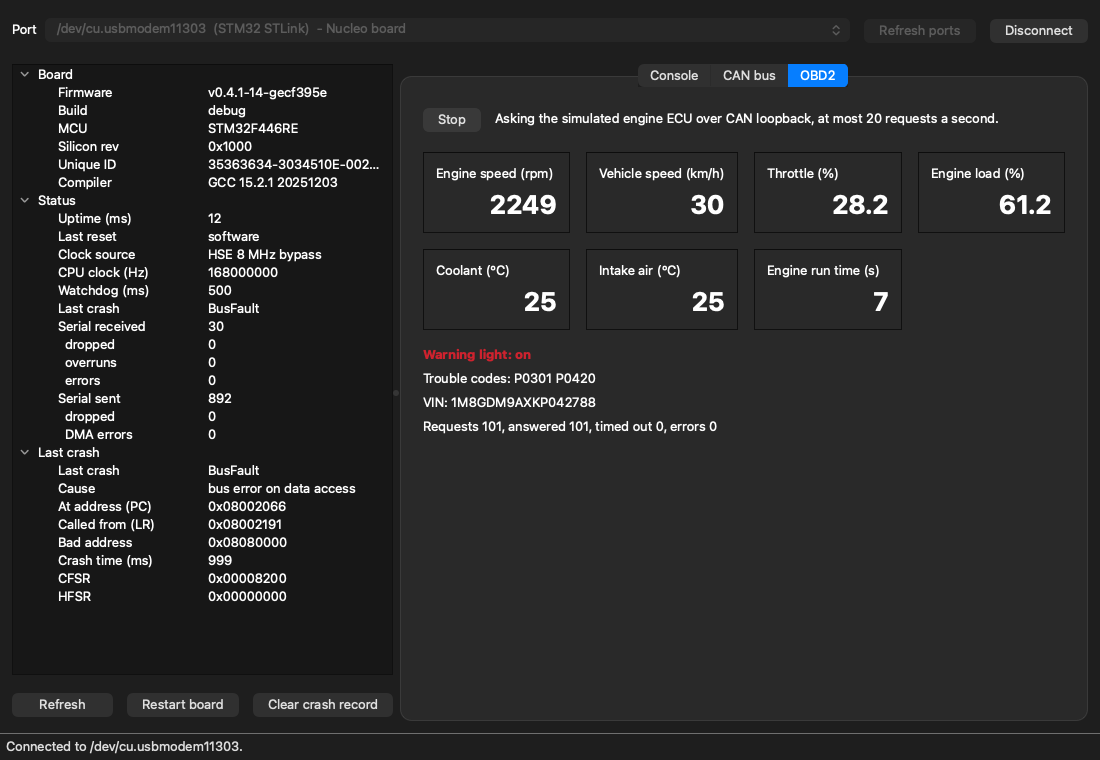
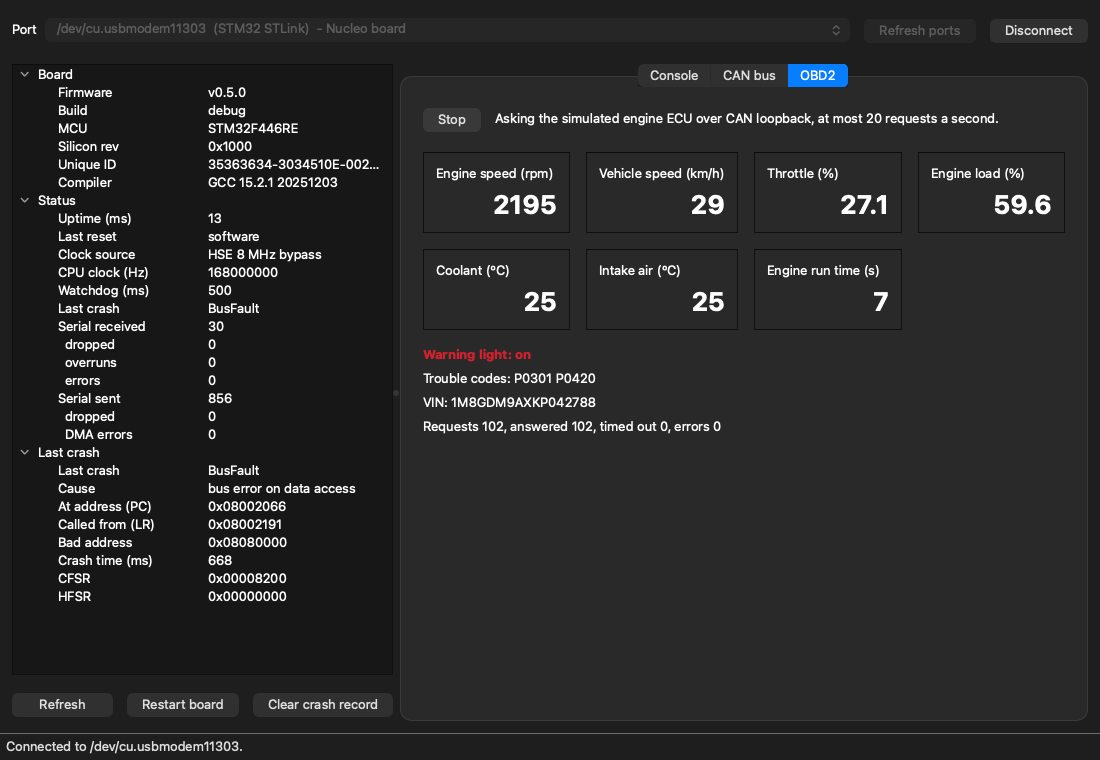
docs: animated demo of the desktop app, and screenshots from v0.5.0 (#76)
screenshots.py gains a demo shot that records the desktop app's OBD2 tab on the board as docs/images/desktop-app-demo.gif; only that shot needs Pillow. All images are retaken from CI's v0.5.0 Debug file.

diff --git a/scripts/screenshots.py b/scripts/screenshots.py
@@ -9,10 +9,12 @@ Needs the laptop tool with the desktop app (`pip install -e "host[gui]"`).
 Close any serial terminal first: only one program can hold the port.
 
 Usage:
-    python3 scripts/screenshots.py [--port PORT] [--out DIR] [console] [can] [obd]
+    python3 scripts/screenshots.py [--port PORT] [--out DIR] [console] [can] [obd] [demo]
 
 console runs `crash bus`, so it needs a Debug build; can and obd work with
-either build. With no names, all three are taken.
+either build. With no names, those three are taken. demo records the animated
+GIF for the README, restarting the board first. It also needs Pillow, which
+nothing else in the project uses (`pip install pillow`).
 """
 
 from __future__ import annotations
@@ -25,6 +27,7 @@ from pathlib import Path
 
 from obdsniff.gui.window import MainWindow
 from obdsniff.gui.worker import DeviceWorker
+from PySide6.QtGui import QImage
 from PySide6.QtWidgets import QApplication
 from shiboken6 import delete
 
@@ -34,7 +37,11 @@ POLL_S = 0.05  # how often the app polls the board when it runs normally
 # rate display to show the bus rate.
 CAN_TEST_FRAMES = 10_000
 OBD_REQUESTS = 100  # about 5 s of the tester
+# The simulated engine idles for 5 s after start-up, then accelerates.
+DEMO_SECONDS = 12.0
+DEMO_FRAME_S = 0.25
 SHOTS = ("console", "can", "obd")
+OPTIONAL_SHOTS = ("demo",)
 
 
 class Shooter:
@@ -111,6 +118,43 @@ class Shooter:
         self.wait_until("the tester to stop", lambda: panel.start_button.text() == "Start")
         self.worker.can_off()
 
+    def demo(self) -> None:
+        """The OBD2 tab from just after a restart: idle, then accelerating."""
+        from PIL import Image  # only this shot needs Pillow
+
+        panel = self.window.obd_panel
+        self.window.tabs.setCurrentWidget(panel)
+        self.worker.reset()
+        self.wait_until("the restart", lambda: panel.start_button.isEnabled())
+        panel.start_button.click()
+        frames = []
+        end = time.monotonic() + DEMO_SECONDS
+        while time.monotonic() < end:
+            shot = time.monotonic()
+            self.wait_until("the next frame", lambda s=shot: time.monotonic() >= s + DEMO_FRAME_S)
+            image = self.window.grab().toImage().convertToFormat(QImage.Format.Format_RGB888)
+            size = (image.width(), image.height())
+            # A line of the image may be padded: pass its true length.
+            data = bytes(image.constBits())
+            frames.append(Image.frombuffer("RGB", size, data, "raw", "RGB", image.bytesPerLine()))
+        panel.start_button.click()
+        self.wait_until("the questions to stop", lambda: panel.start_button.text() == "Start")
+        self.worker.can_off()
+
+        # One palette for every frame, so colours don't flicker between them.
+        palette = frames[len(frames) // 2].quantize(colors=64)
+        indexed = [frame.quantize(palette=palette, dither=Image.Dither.NONE) for frame in frames]
+        path = self.out / "desktop-app-demo.gif"
+        indexed[0].save(
+            path,
+            save_all=True,
+            append_images=indexed[1:],
+            duration=round(DEMO_SECONDS * 1000 / len(frames)),  # plays at real speed
+            loop=0,
+            optimize=True,
+        )
+        print(f"saved {path.relative_to(ROOT) if path.is_relative_to(ROOT) else path}")
+
     def close(self) -> None:
         self.worker.close_port()
         self.window.close()
@@ -123,12 +167,15 @@ def main() -> int:
     parser = argparse.ArgumentParser(description=__doc__.splitlines()[0])
     parser.add_argument("--port", help="serial port (default: find the board)")
     parser.add_argument("--out", type=Path, default=ROOT / "docs" / "images")
-    parser.add_argument("shots", nargs="*", metavar="SHOT", help="console, can, obd (default: all)")
+    parser.add_argument(
+        "shots", nargs="*", metavar="SHOT", help="console, can, obd (the default), or demo"
+    )
     args = parser.parse_args()
     shots = args.shots or list(SHOTS)
-    unknown = sorted(set(shots) - set(SHOTS))
+    names = SHOTS + OPTIONAL_SHOTS
+    unknown = sorted(set(shots) - set(names))
     if unknown:
-        parser.error(f"unknown screenshot: {', '.join(unknown)} (choose from {', '.join(SHOTS)})")
+        parser.error(f"unknown screenshot: {', '.join(unknown)} (choose from {', '.join(names)})")
 
     shooter = Shooter(args.port, args.out)
     try:

diff --git a/host/README.md b/host/README.md
@@ -135,7 +135,7 @@ vehicle speed, throttle, engine load, coolant and intake temperature and run tim
 light, stored trouble codes, the VIN, and the request counters. **Stop** stops the questions, and
 the board then sends nothing more: it never asks on its own.
 
-![The OBD2 tab on the board: 101 questions asked by the laptop in about 5 seconds, every one answered](../docs/images/desktop-app-obd.png)
+![The OBD2 tab on the board: 102 questions asked by the laptop in about 5 seconds, every one answered](../docs/images/desktop-app-obd.png)
 
 The connection to the board runs on its own thread, so the window stays responsive even while the
 board restarts or thousands of frames a second stream in.
